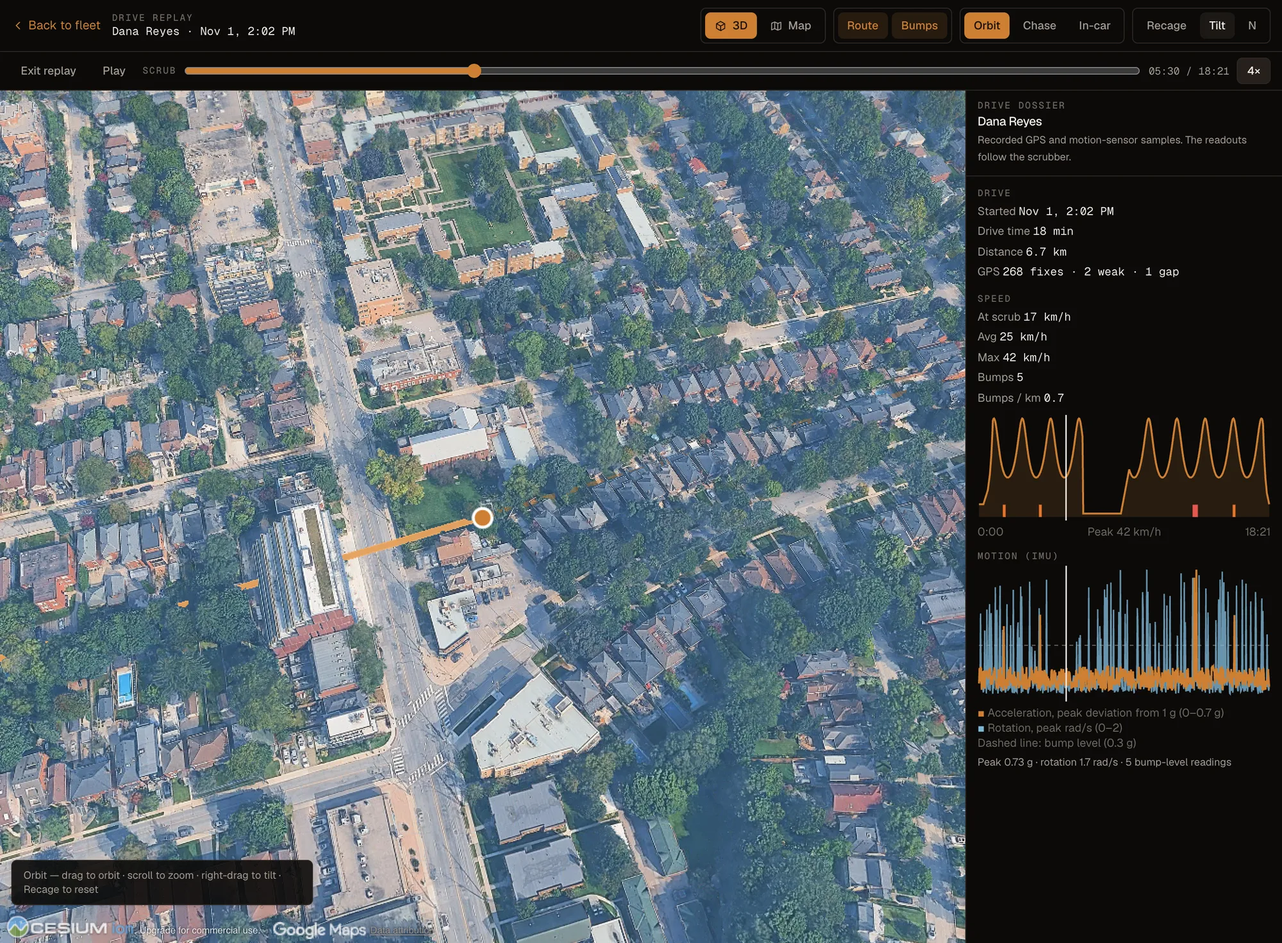
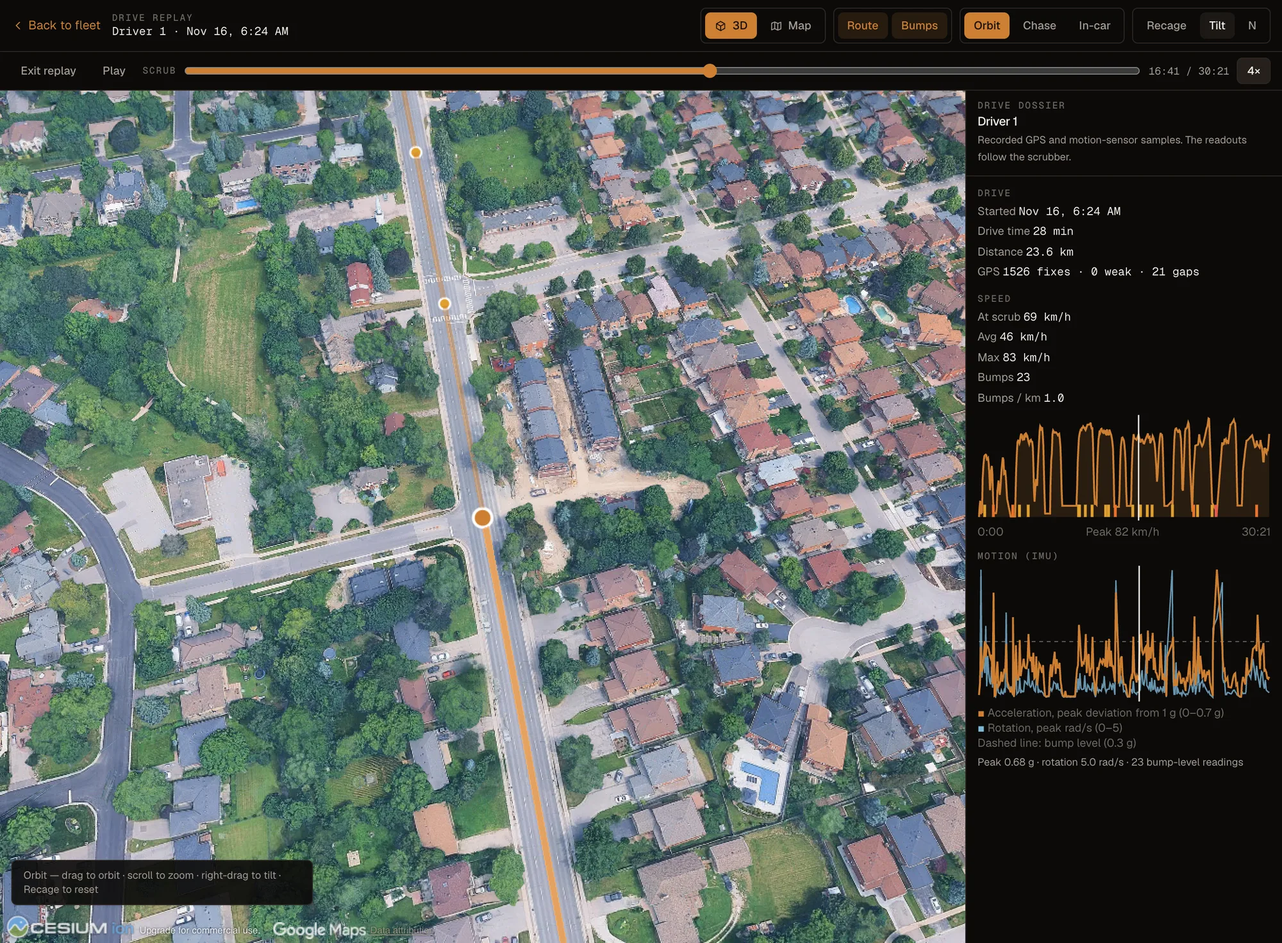
Hero: Driver 1's real recorded drive, with the phone app overlaid
- Hero and 3D showcase screenshots now use Driver 1's most recent session (16 Nov), a phone-recorded drive that follows real roads, replacing the synthetic route that cut through houses
- Hero is the console screenshot with the iPhone app in front of it (new PhoneFrame)
- Charts section uses the same real drive and the demo fleet's real daily distances; GPS coordinates are stripped from the stored data

diff --git a/apps/web/components/site/ChartsShowcase.tsx b/apps/web/components/site/ChartsShowcase.tsx
@@ -1,17 +1,14 @@
 import type { ReactNode } from "react";
 import { DailyBars, MotionChart, SpeedChart } from "@/features/fleets/charts";
-import { buildDemoDrives, DEMO_MEMBERS, DEMO_RANGE } from "@/lib/data/demoData";
 import { bumpsPerUnit, formatDistance, formatDuration, formatSpeed } from "@/lib/format";
 import { summarizeMotion } from "@/lib/motion";
-import { sampleDrive } from "./sample-drive";
+import { sampleDaily, sampleDrive, sampleDriverName, sampleFleetName } from "./sample-drive";
 
 /**
- * The console's own speed, motion and distance charts, drawn from the sample
- * fleet's recorded history (the same data the demo console uses), so the
- * landing page shows exactly what a manager sees rather than a mock-up.
+ * The console's own speed, motion and distance charts, drawn from a real
+ * recorded drive and the demo fleet's daily distances (see sample-drive.ts), so
+ * the landing page shows exactly what a manager sees rather than a mock-up.
  */
-
-const DAY_MS = 86_400_000;
 
 function Card({ eyebrow, title, className = "", children }: { eyebrow: string; title: string; className?: string; children: ReactNode }) {
   return (
@@ -35,21 +32,10 @@ function Stat({ label, value }: { label: string; value: string }) {
 }
 
 export function ChartsShowcase() {
-  const drives = buildDemoDrives();
   const drive = sampleDrive();
-  const driver = DEMO_MEMBERS.find((m) => m.userId === drive.userId)?.displayName ?? "Driver";
+  const driver = sampleDriverName;
   const motion = summarizeMotion(drive.motion);
-
-  // Whole-fleet distance per day across the sample range (UTC days; every sample drive starts mid-day UTC).
-  const daily = Array.from({ length: DEMO_RANGE.days }, (_, i) => {
-    const start = DEMO_RANGE.startDay + i * DAY_MS;
-    const day = drives.filter((d) => d.startedAt >= start && d.startedAt < start + DAY_MS);
-    return {
-      day: new Date(start).toISOString().slice(0, 10),
-      distanceM: day.reduce((sum, d) => sum + d.distanceM, 0),
-      drives: day.length,
-    };
-  });
+  const daily = sampleDaily();
   const dateLabel = new Date(drive.startedAt).toLocaleDateString("en-US", { month: "short", day: "numeric", timeZone: "UTC" });
   const t0 = drive.path[0][2];
   const cursorMs = drive.durationMs * 0.42;
@@ -66,7 +52,7 @@ export function ChartsShowcase() {
       <Card eyebrow="Speed" title={`${driver} · ${dateLabel}`} className="lg:col-span-2">
         <SpeedChart path={drive.path} jolts={drive.jolts} cursorMs={cursorMs} unit="km" className="h-40 md:h-52" />
       </Card>
-      <Card eyebrow="Distance per day" title="Sample fleet · Nov 1–16">
+      <Card eyebrow="Distance per day" title={`${sampleFleetName} · Nov 1–16`}>
         <DailyBars data={daily} unit="km" className="h-40 md:h-52" />
       </Card>
 

diff --git a/apps/web/app/(site)/page.tsx b/apps/web/app/(site)/page.tsx
@@ -3,9 +3,7 @@ import { ClosingCta, FeatureGrid, PricingCards, StepCards, ValueGrid } from "@/c
 import { ChartsShowcase } from "@/components/site/ChartsShowcase";
 import { FleetLineup } from "@/components/site/FleetLineup";
 import { FocusShowcase } from "@/components/site/FocusShowcase";
-import { ProductShot } from "@/components/site/ProductShot";
-import { SpeedChart } from "@/features/fleets/charts";
-import { sampleDrive } from "@/components/site/sample-drive";
+import { PhoneFrame, ProductShot } from "@/components/site/ProductShot";
 import { CtaButton, PageHero, Section } from "@/components/site/Prose";
 import { CubeIcon, GaugeIcon, PinIcon, PulseIcon, RewindIcon, TruckIcon, UsersIcon } from "@/components/site/icons";
 import { siteCopy as copy } from "@/lib/site-copy";
@@ -18,9 +16,8 @@ export const metadata: Metadata = {
 // One icon per console feature, in the same order as copy.console.features.
 const featureIcons = [PinIcon, RewindIcon, CubeIcon, PulseIcon, TruckIcon, GaugeIcon, UsersIcon];
 
-/** Hero visual: the real 3D replay, with the console's own speed chart floating over it. */
+/** Hero visual: the real 3D replay in the console, with the phone app overlaid in front of it. */
 function HeroVisual() {
-  const drive = sampleDrive();
   return (
     <ProductShot
       src="/landing/replay-3d.webp"
@@ -29,12 +26,13 @@ function HeroVisual() {
       height={1471}
       sizes="(min-width: 768px) 55vw, 100vw"
       priority
-      className="rise"
+      className="rise mb-8 mr-6 sm:mr-10"
     >
-      <div className="absolute left-[3%] top-[18%] hidden w-[34%] border border-border bg-background/90 p-3 shadow-xl backdrop-blur sm:block">
-        <p className="eyebrow mb-1">Speed</p>
-        <SpeedChart path={drive.path} jolts={drive.jolts} cursorMs={drive.durationMs * 0.42} unit="km" className="h-14" />
-      </div>
+      <PhoneFrame
+        src="/landing/phone-home.webp"
+        alt="The MileWire app on an iPhone: a dark map with the Track mode button"
+        className="absolute -bottom-8 -right-6 w-[26%] sm:-right-10"
+      />
     </ProductShot>
   );
 }

diff --git a/apps/web/components/site/sample-drive.ts b/apps/web/components/site/sample-drive.ts
@@ -1,11 +1,17 @@
-import { buildDemoDrives } from "@/lib/data/demoData";
+import data from "./sample-drive.json";
+import type { DriveDetail } from "@/lib/types";
 
 /**
- * The sample drive shown on the landing page. It is the same drive as in the
- * 3D replay screenshots (Dana Reyes, 1 November), so the numbers on the page
- * agree with the picture. Falls back to the first sample drive if it ever moves.
+ * The drive behind the landing page's charts and screenshots: Driver 1's most
+ * recent session in the North Region Drivers demo fleet (16 Nov 2026). It was
+ * recorded on a phone, so it follows real roads. GPS coordinates are stripped
+ * from the stored copy (the charts only need time, speed and bump markers), so
+ * no location data ships to the public page.
  */
-export function sampleDrive() {
-  const drives = buildDemoDrives();
-  return drives.find((d) => d.id === "demo-drive-1") ?? drives[0];
-}
+export const sampleDrive = (): DriveDetail => data.drive as unknown as DriveDetail;
+
+export const sampleDriverName = data.driverName;
+export const sampleFleetName = data.fleetName;
+
+/** Whole-fleet distance per day, 1 to 16 November 2026. */
+export const sampleDaily = (): Array<{ day: string; distanceM: number; drives: number }> => data.daily;

diff --git a/apps/web/components/site/ProductShot.tsx b/apps/web/components/site/ProductShot.tsx
@@ -38,3 +38,17 @@ export function ProductShot({
     </div>
   );
 }
+
+/**
+ * A phone screenshot in a dark bezel. The screenshot already includes the
+ * status bar and Dynamic Island, so the frame only adds the rounded body.
+ */
+export function PhoneFrame({ src, alt, className = "" }: { src: ImageProps["src"]; alt: string; className?: string }) {
+  return (
+    <div
+      className={`rounded-[15%/7%] border-[3px] border-[#2a2420] bg-black p-[3px] shadow-[0_28px_70px_-8px_rgb(0_0_0/0.95),0_0_0_1px_rgb(255_255_255/0.08)] ${className}`}
+    >
+      <Image src={src} alt={alt} width={600} height={1305} sizes="(min-width: 768px) 14vw, 26vw" className="block h-auto w-full rounded-[13%/6%]" />
+    </div>
+  );
+}

diff --git a/apps/web/lib/site-copy.ts b/apps/web/lib/site-copy.ts
@@ -89,7 +89,7 @@ export const siteCopy = {
   charts: {
     eyebrow: "Speed and motion",
     title: "See what happened on every drive",
-    lead: "Speed, motion-sensor readings and bump markers for each trip, with distance per day across the fleet. These are the console's own charts, drawn from a sample fleet.",
+    lead: "Speed, motion-sensor readings and bump markers for each trip, with distance per day across the fleet. These are the console's own charts, drawn from a real drive recorded on a phone in our demo fleet.",
   },
 
   why: {
